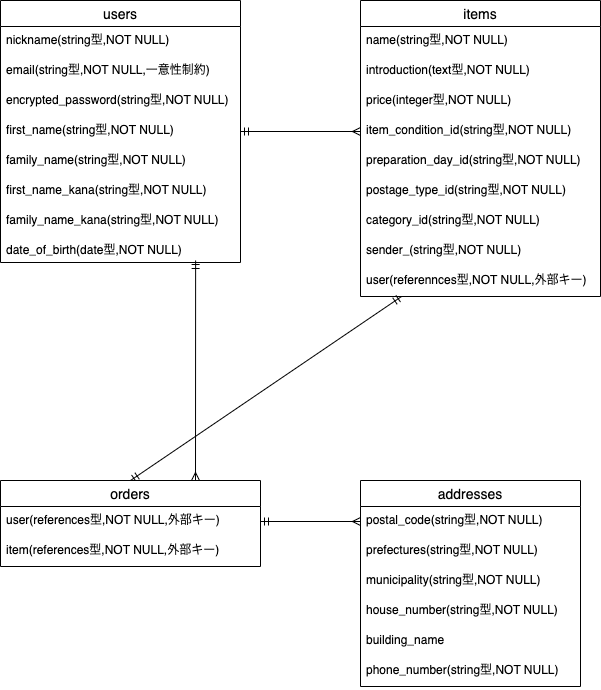
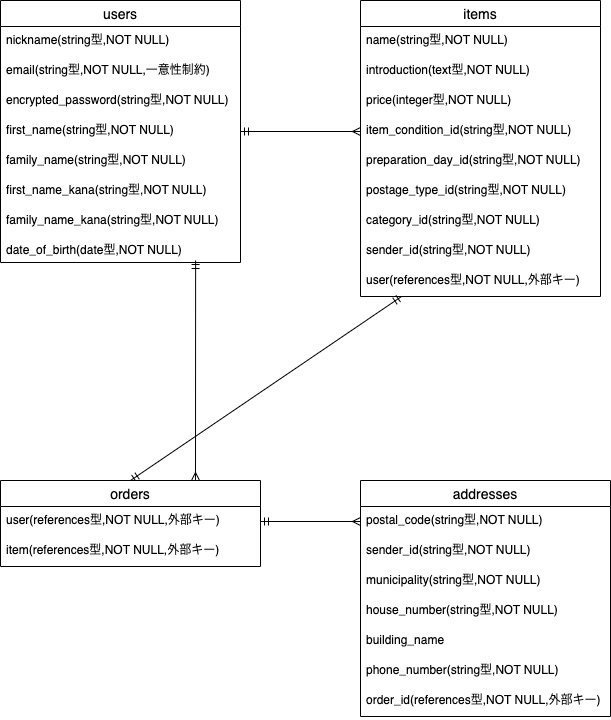
データベース設計その５

diff --git a/README.md b/README.md
@@ -31,11 +31,10 @@
 | category_id        | integer    | null: false                     |
 | sender_id          | integer    | null: false                     |
 | user               | references | null: false, foreign_key: true  |
-| order              | references | null: false, foreign_key: true  |
 
 ### Association
 
-- belong_to :user
+- belongs_to :user
 - has_one   :order
 
 ## orders
@@ -47,21 +46,22 @@
 
 ### Association
 
-- belong_to :user
-- belong_to :item
+- belongs_to :user
+- belongs_to :item
 - has_one   :address
 
 ## addresses
 
-| Column             | Type       | Options      |
-| -------------------| -----------| -------------|
-| postal_code        | string     | null: false  |
-| prefecture_id      | string     | null: false  |
-| municipality       | string     | null: false  |
-| house_number       | string     | null: false  |
-| building_name      | siring     |              |
-| phone_number       | string     | null: false  |
+| Column             | Type       | Options                         |
+| -------------------| -----------| --------------------------------|
+| postal_code        | integer    | null: false                     |
+| sender_id          | integer    | null: false                     |
+| municipality       | string     | null: false                     |
+| house_number       | string     | null: false                     |
+| building_name      | string     |                                 |
+| phone_number       | string     | null: false                     |
+| order              | references | null: false, foreign_key: true  |
 
 ### Association
 
-- belong_to :order
+- belongs_to :order
